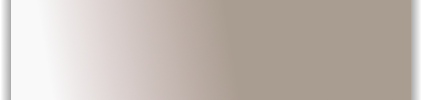
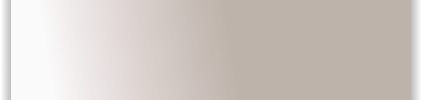
CSS: more contrast

diff --git a/app/stylesheets/RonRonnement.scss b/app/stylesheets/RonRonnement.scss
@@ -341,7 +341,7 @@ input[type='submit'] {
 			visibility: hidden; /* TODO la recherche ne marche pas avec opera */
 		}
 		display: block;
-		background: $C_FONCE;
+		background: $C_INTER;
 		padding-left: $PX_SITE_PAD_DROIT;
 		padding-right: $PX_SITE_PAD_DROIT;
 		width: 180px;

diff --git a/public/stylesheets/RonRonnement.css b/public/stylesheets/RonRonnement.css
@@ -346,7 +346,7 @@ input[type='submit'] {
         content: ""; }
   #site form {
     display: block;
-    background: #93877b;
+    background: #a99c90;
     padding-left: 42px;
     padding-right: 42px;
     width: 180px;
